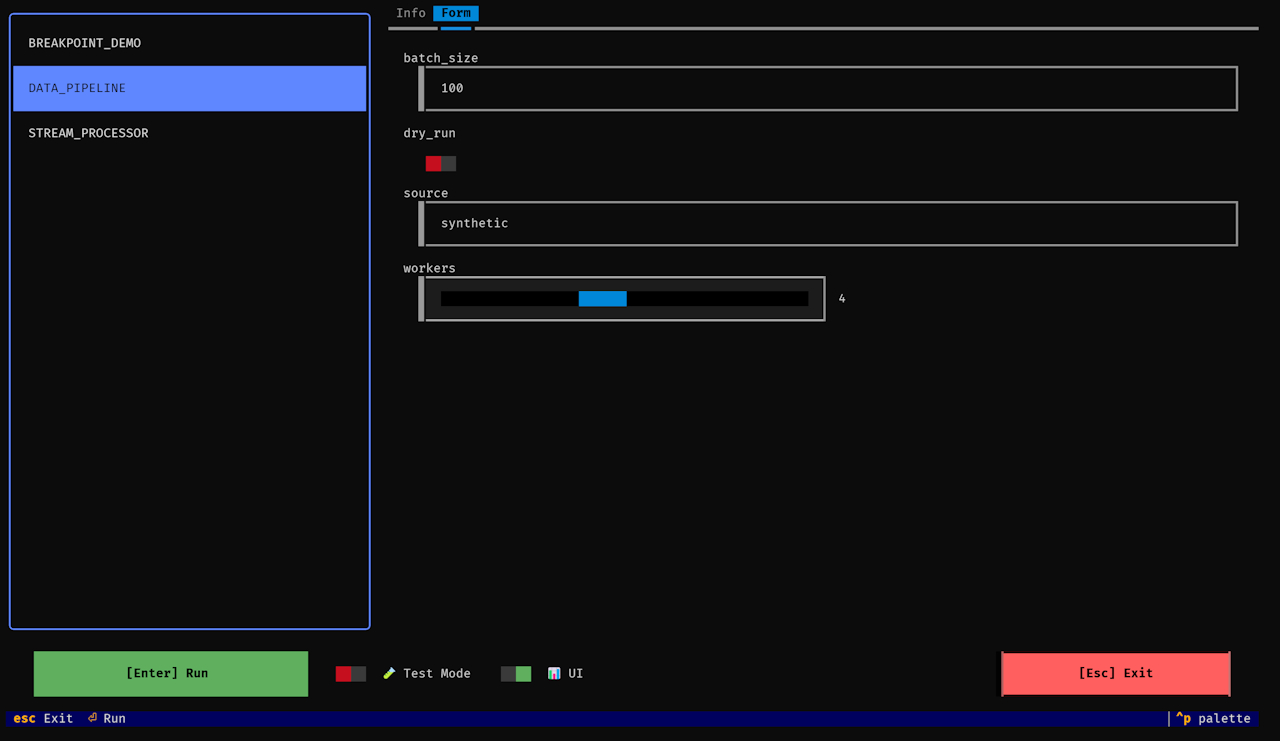
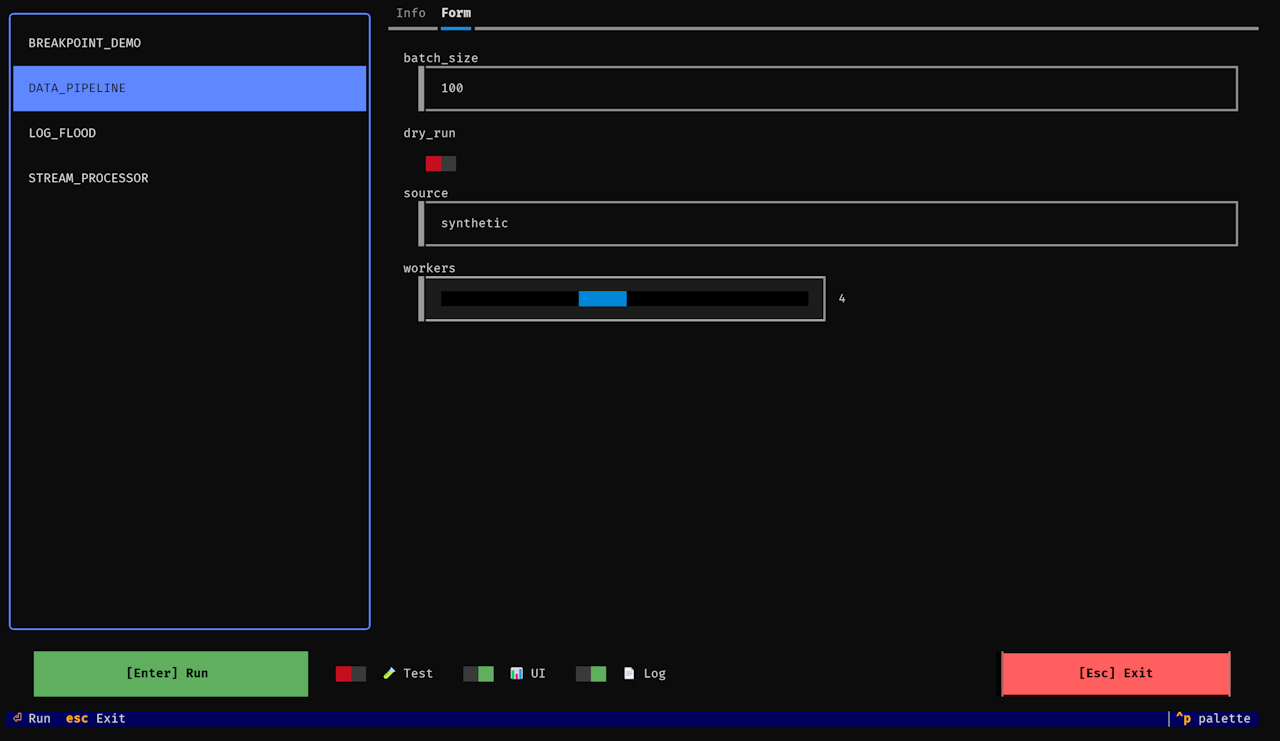
Increment version to 2.2.10; update README with PyPI link and escape characters in UI confirmation buttons

diff --git a/src/carabao/cli/cmd_dev/ui.py b/src/carabao/cli/cmd_dev/ui.py
@@ -206,8 +206,8 @@ class _ConfirmQuit(ModalScreen[bool]):
             yield Label("Pipeline is still running.\nQuit anyway?")
 
             with Horizontal(id="confirm-buttons"):
-                yield Button("[y] Quit", variant="error", id="confirm-yes")
-                yield Button("[n] Cancel", variant="primary", id="confirm-no")
+                yield Button("\\[y] Quit", variant="error", id="confirm-yes")
+                yield Button("\\[n] Cancel", variant="primary", id="confirm-no")
 
     @on(Button.Pressed, "#confirm-yes")
     def _yes(self):

diff --git a/README.md b/README.md
@@ -27,6 +27,7 @@
 ```
 
 [GitHub](https://github.com/Talisik/carabao)
+[PyPI](https://pypi.org/project/carabao/)
 
 A Python library for building robust publisher-subscriber (pub/sub) frameworks with built-in lanes for common tasks.
 